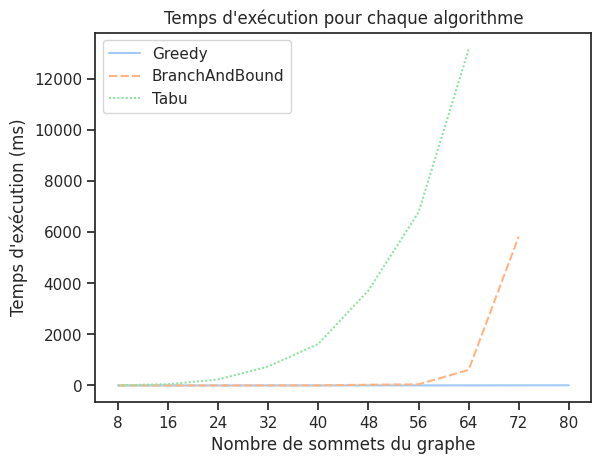
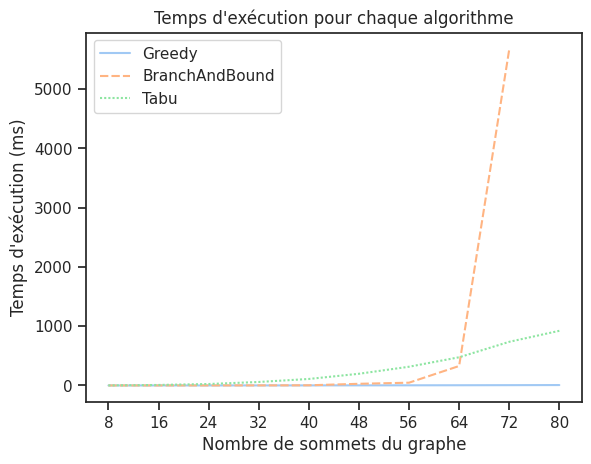
Set max number of tabu iterations to 128

diff --git a/TP2/implementation/src/tabu_search_algorithm.rs b/TP2/implementation/src/tabu_search_algorithm.rs
@@ -7,7 +7,7 @@ use rand::Rng;
 use crate::graph_utils::count_colors;
 use crate::greedy_algorithm::solve_with_greedy;
 
-const MAX_TABU_ITERATION_COUNT: usize = 100;
+const MAX_TABU_ITERATION_COUNT: usize = 128;
 const ALPHA: usize = 2;
 const G: usize = 10;
 

diff --git a/TP2/analyze.py b/TP2/analyze.py
@@ -22,8 +22,8 @@ ALGORITHMS = {
 }
 MAX_GRAPH_SIZES = {
     'Greedy': None,
-    'BranchAndBound': None,
-    'Tabu': 64,
+    'BranchAndBound': 72,
+    'Tabu': None,
 }
 THEORETICAL_COMPLEXITY_POWERS = {
     'Conventional': 3,

diff --git a/TP2/analysis/execution_times.md b/TP2/analysis/execution_times.md
@@ -1,12 +1,12 @@
-|   GraphSize |    Greedy |   BranchAndBound |        Tabu |
-|------------:|----------:|-----------------:|------------:|
-|           8 | 0.0169348 |        0.0284603 |     2.57701 |
-|          16 | 0.0828879 |        0.149777  |    47.4993  |
-|          24 | 0.243301  |        0.371193  |   233.34    |
-|          32 | 0.605228  |        1.1662    |   742.895   |
-|          40 | 1.15493   |        3.09417   |  1628.41    |
-|          48 | 2.03281   |       28.2494    |  3723.47    |
-|          56 | 2.82426   |       44.5199    |  6784.96    |
-|          64 | 3.65086   |      609.65      | 13164.5     |
-|          72 | 5.24256   |     5832.91      |   nan       |
-|          80 | 6.98397   |      nan         |   nan       |
+|   GraphSize |    Greedy |   BranchAndBound |       Tabu |
+|------------:|----------:|-----------------:|-----------:|
+|           8 | 0.0150886 |        0.0269622 |   0.965143 |
+|          16 | 0.0757718 |        0.137079  |   8.20338  |
+|          24 | 0.218445  |        0.36967   |  24.3776   |
+|          32 | 0.510011  |        1.01576   |  58.6369   |
+|          40 | 0.949638  |        2.62154   | 109.491    |
+|          48 | 1.59682   |       27.8961    | 197.166    |
+|          56 | 2.44551   |       46.5159    | 315.939    |
+|          64 | 3.5215    |      328.355     | 475.811    |
+|          72 | 4.96995   |     5671.09      | 736.429    |
+|          80 | 6.80644   |      nan         | 922.186    |

diff --git a/TP2/analysis/color_counts.md b/TP2/analysis/color_counts.md
@@ -2,11 +2,11 @@
 |------------:|---------:|-----------------:|-------:|
 |           8 |      5.9 |              5.9 |    5.9 |
 |          16 |     10.2 |             10.2 |   10.2 |
-|          24 |     13.3 |             13.2 |   13.2 |
-|          32 |     16.5 |             16.4 |   16.4 |
-|          40 |     19.4 |             19.1 |   19.4 |
-|          48 |     23   |             21.8 |   22.3 |
-|          56 |     25.6 |             24.5 |   25.2 |
-|          64 |     29.2 |             27.1 |   28.3 |
-|          72 |     32.2 |             29.6 |  nan   |
-|          80 |     35.9 |            nan   |  nan   |
+|          24 |     13.2 |             13.2 |   13.2 |
+|          32 |     16.5 |             16.4 |   16.6 |
+|          40 |     19.6 |             19.1 |   19.5 |
+|          48 |     22.4 |             21.8 |   22.4 |
+|          56 |     25.8 |             24.5 |   25.1 |
+|          64 |     29.1 |             27.1 |   28.2 |
+|          72 |     32.5 |             29.6 |   30.9 |
+|          80 |     35.1 |            nan   |   35   |
